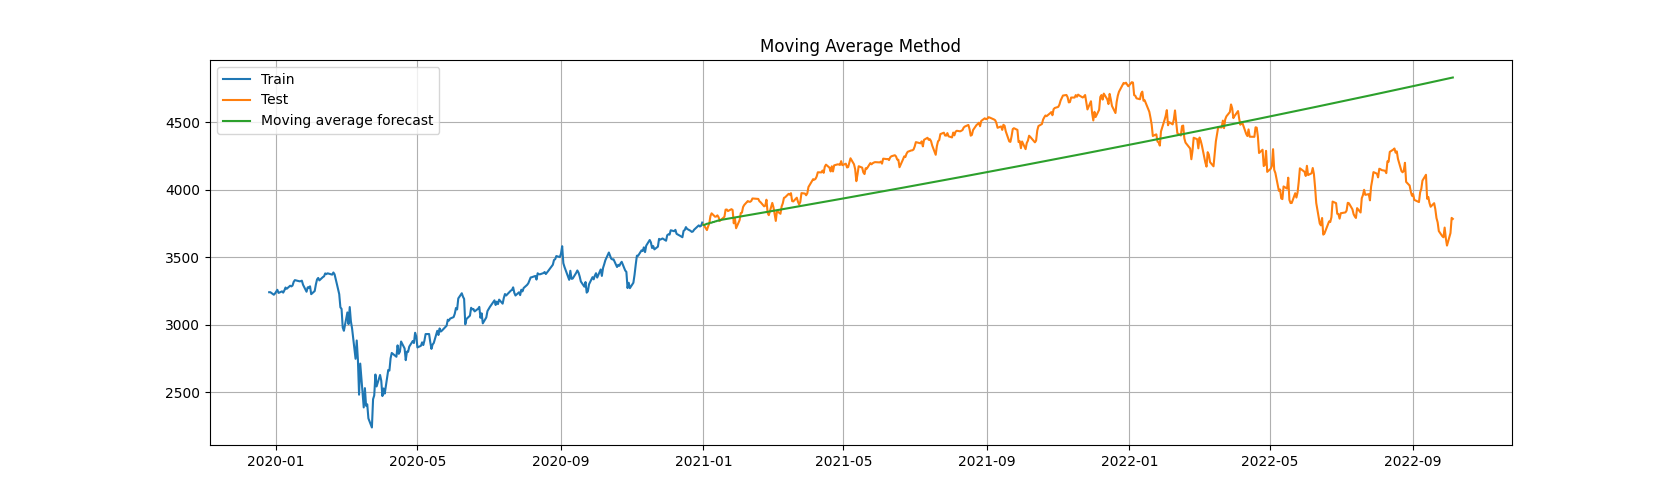
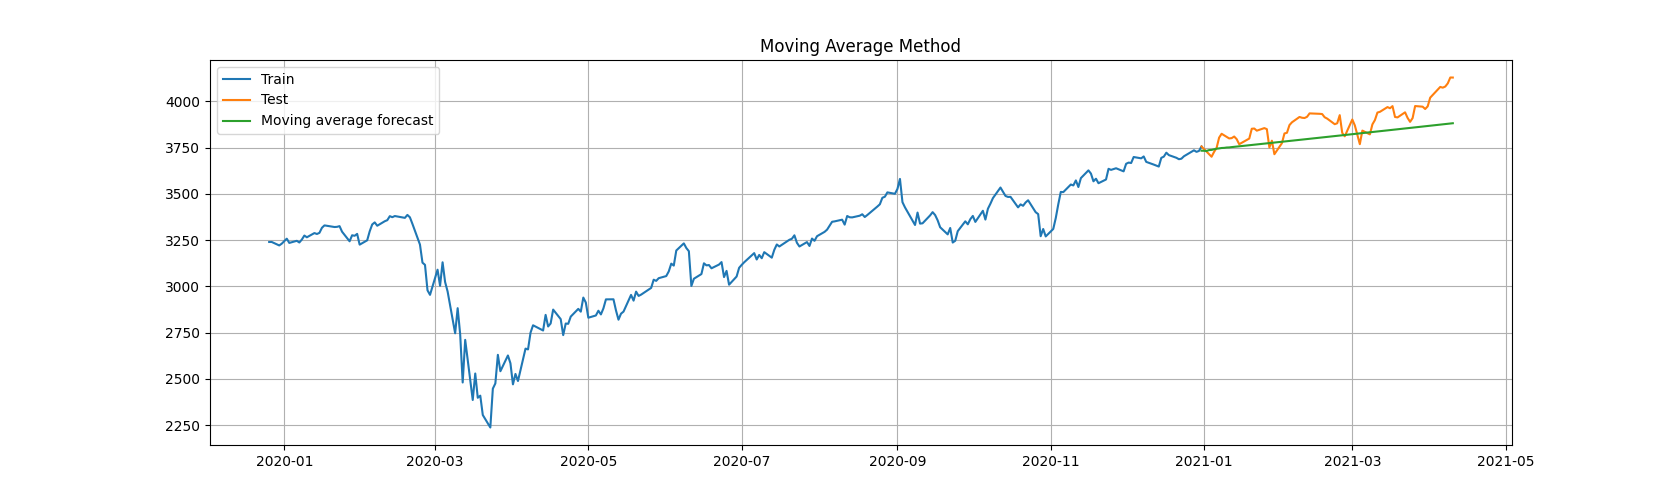
finalized project 2

diff --git a/project_2/project_2.py b/project_2/project_2.py
@@ -9,6 +9,7 @@ import datetime
 from sklearn.metrics import mean_squared_error
 import numpy as np
 from scipy.stats import boxcox
+from datetime import datetime, timedelta
 
 
 import warnings
@@ -54,42 +55,66 @@ def main(show=True):
     close_data = df["Close"]
     close_data_14 = close_data.rolling(window=10).mean()
 
-    df["Close"].plot(figsize=(20, 5))
-    plt.plot(close_data_14, "r-", label="Running average 14 Days")
-    # plt.xlabel("Date")
-    plt.grid(linestyle=":")
-    # plt.fill_between(co2.index, 0, co2, color="r", alpha=0.1)
-    plt.legend(loc="upper left")
-    plt.show()
+    # df["Close"].plot(figsize=(20, 5))
+    # plt.plot(close_data_14, "r-", label="Running average 14 Days")
+    # # plt.xlabel("Date")
+    # plt.grid(linestyle=":")
+    # # plt.fill_between(co2.index, 0, co2, color="r", alpha=0.1)
+    # plt.legend(loc="upper left")
+    # plt.show()
 
-    train = df["2019-12-26":"2020-12-31"]  # first 120 Days as training set
+    # Part 1
+    train_start = "12-26-2019"
+    train_end = "12-31-2020"
+    test_end = "4-10-2021"
+
+    # Part 3
+    # train_start = "1-1-2021"
+    # train_end = "7-31-2021"
+    # test_end = "9-25-2021"
+
+    train_end_minus_one = datetime.strptime(train_end, "%M-%d-%Y") - timedelta(
+        days=1
+    )
+    train_end_minus_one = train_end_minus_one.strftime("%M-%d-%Y")
+
+    test_end_minus_one = datetime.strptime(test_end, "%M-%d-%Y") - timedelta(
+        days=1
+    )
+    # test_end_minus_one = test_end_minus_one.strftime("%-d-%M-%Y")
+
+    print(train_end)
+    print(train_end_minus_one)
+
+    train = df[train_start:train_end]
+    # train = df["2019-12-26":"2020-12-31"]
     train_len = train.shape[0]
-    test = df[train_len:]  # last 24 months as out-of-time test set
+    test = df[train_end:test_end]
 
     data_boxcox = pd.Series(boxcox(df["Close"], lmbda=0), index=df.index)
 
-    plt.grid()
-    plt.plot(data_boxcox, label="After Box Cox tranformation")
-    plt.legend(loc="best")
-    plt.title("After Box Cox transform")
-    plt.show()
+    # plt.grid()
+    # plt.plot(data_boxcox, label="After Box Cox tranformation")
+    # plt.legend(loc="best")
+    # plt.title("After Box Cox transform")
+    # plt.show()
 
     data_boxcox_diff = pd.Series(data_boxcox - data_boxcox.shift(), df.index)
-    plt.figure(figsize=(20, 5))
-    plt.grid()
-    plt.plot(
-        data_boxcox_diff, label="After Box Cox tranformation and differencing"
-    )
-    plt.legend(loc="best")
-    plt.title("After Box Cox transform and differencing")
-    plt.show()
+    # plt.figure(figsize=(20, 5))
+    # plt.grid()
+    # plt.plot(
+    #     data_boxcox_diff, label="After Box Cox tranformation and differencing"
+    # )
+    # plt.legend(loc="best")
+    # plt.title("After Box Cox transform and differencing")
+    # plt.show()
 
     data_boxcox_diff.dropna(inplace=True)
 
-    train_data_boxcox = data_boxcox[:train_len]
-    test_data_boxcox = data_boxcox[train_len:]
-    train_data_boxcox_diff = data_boxcox_diff[: train_len - 1]
-    test_data_boxcox_diff = data_boxcox_diff[train_len - 1 :]
+    train_data_boxcox = data_boxcox[train_start:train_end]
+    test_data_boxcox = data_boxcox[train_end:]
+    train_data_boxcox_diff = data_boxcox_diff[:train_end_minus_one]
+    test_data_boxcox_diff = data_boxcox_diff[train_end_minus_one:test_end]
 
     model = sm.tsa.arima.ARIMA(train_data_boxcox_diff, order=(0, 0, 14))
     model_fit = model.fit()
@@ -110,10 +135,10 @@ def main(show=True):
     plt.figure(figsize=(20, 5))
 
     plt.grid()
-    plt.plot(df["Close"][:train_len], label="Train")
-    plt.plot(df["Close"][train_len:], label="Test")
+    plt.plot(df["Close"][train_start:train_end], label="Train")
+    plt.plot(df["Close"][train_end:test_end], label="Test")
     plt.plot(
-        y_hat_ma["ma_forecast"][test.index.min() :],
+        y_hat_ma["ma_forecast"][test.index.min() : test_end],
         label="Moving average forecast",
     )
     plt.legend(loc="best")
@@ -122,12 +147,15 @@ def main(show=True):
 
     rmse = np.sqrt(
         mean_squared_error(
-            test["Close"], y_hat_ma["ma_forecast"][test.index.min() :]
+            test["Close"], y_hat_ma["ma_forecast"][test.index.min() : test_end]
         )
     ).round(2)
     mape = np.round(
         np.mean(
-            np.abs(test["Close"] - y_hat_ma["ma_forecast"][test.index.min() :])
+            np.abs(
+                test["Close"]
+                - y_hat_ma["ma_forecast"][test.index.min() : test_end]
+            )
             / test["Close"]
         )
         * 100,
